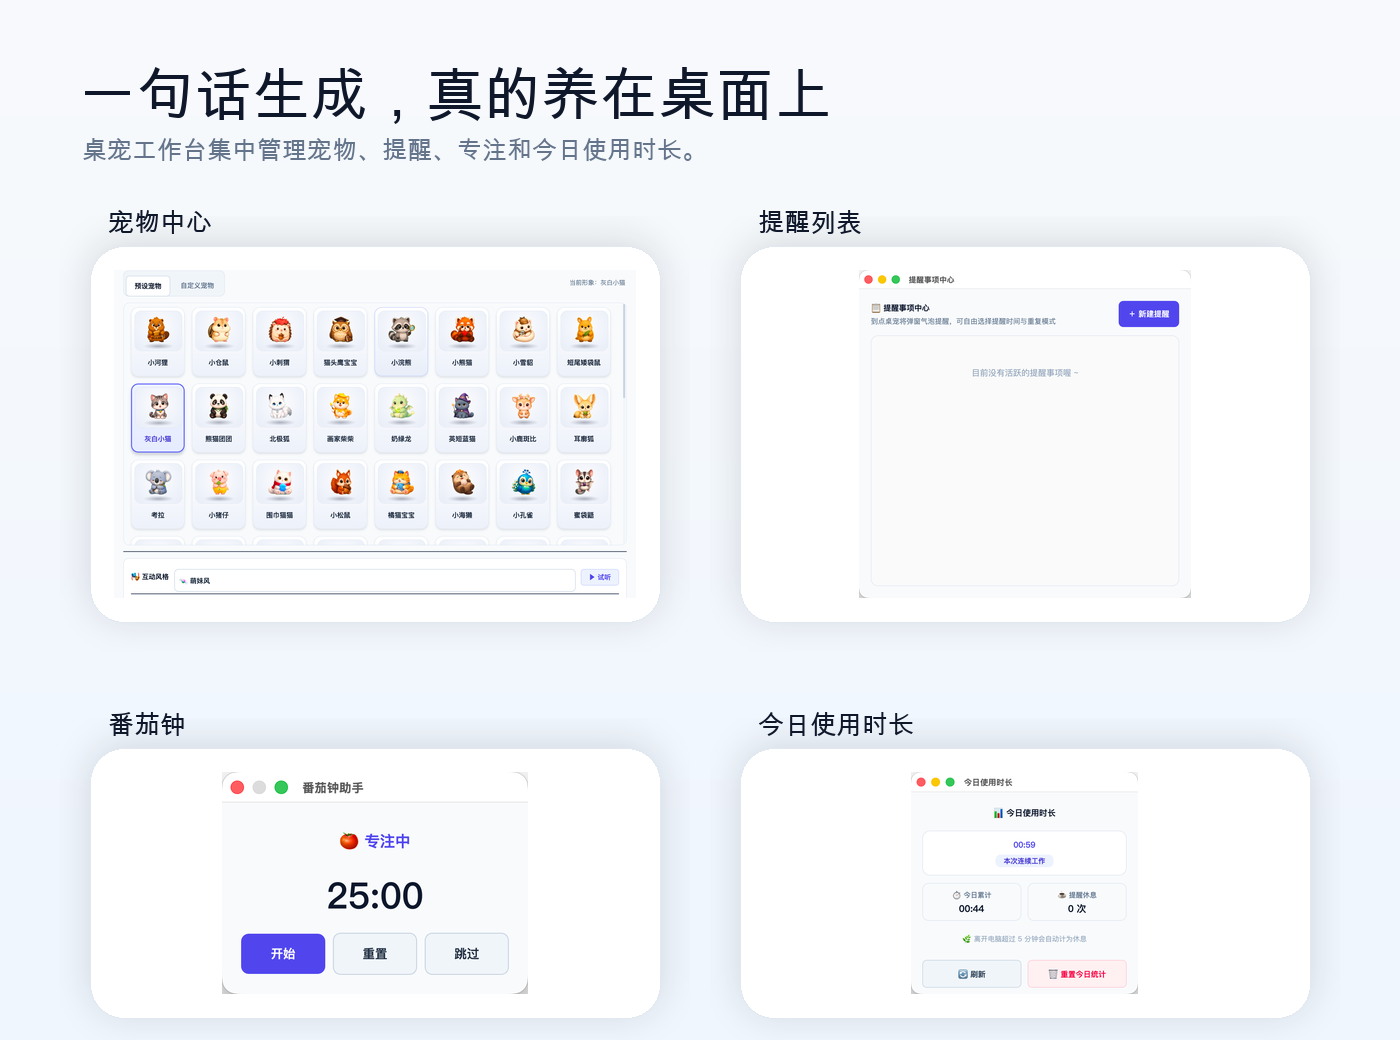
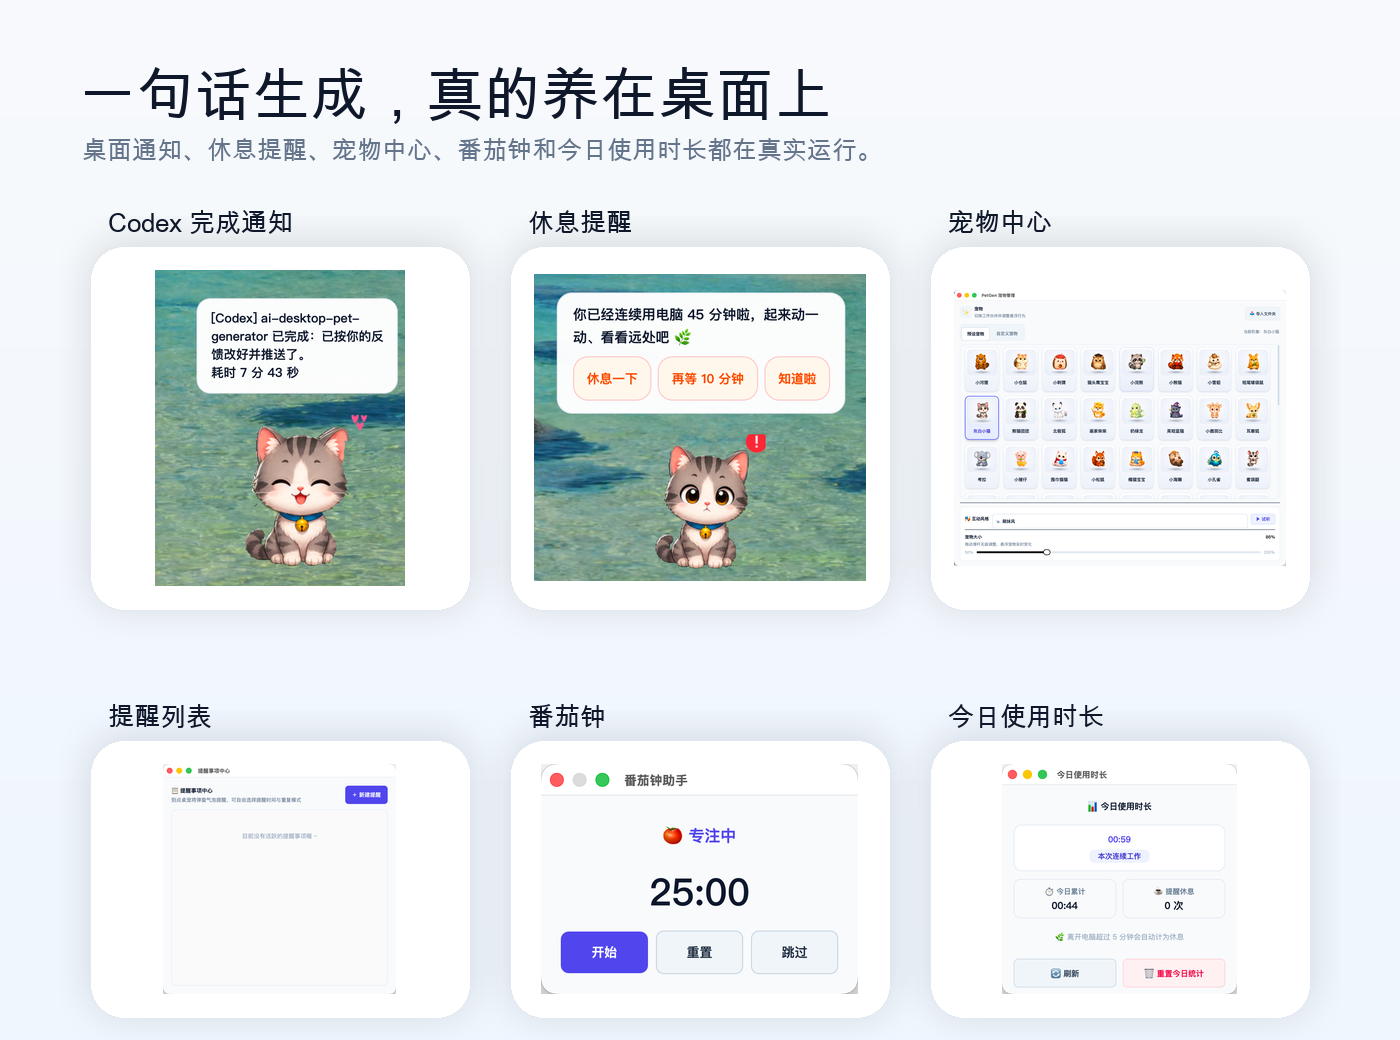
docs: polish runtime showcase grid

diff --git a/scripts/make_readme_media.py b/scripts/make_readme_media.py
@@ -31,6 +31,7 @@ IMG_DIR = ROOT / "docs" / "images"
 SOCIAL_DIR = ROOT / "docs" / "social"
 GPT_SCENE = IMG_DIR / "gpt-desktop-scene.png"
 NOTIFICATION_SHOT = IMG_DIR / "readme-notification.png"
+REST_REMINDER_SHOT = IMG_DIR / "readme-rest-reminder.png"
 PET_CENTER_SHOT = IMG_DIR / "readme-pet-center.png"
 REMINDERS_SHOT = IMG_DIR / "readme-reminders.png"
 POMODORO_SHOT = IMG_DIR / "readme-pomodoro.png"
@@ -365,14 +366,16 @@ def _render_qt_panels(output_dir: Path) -> tuple[Path, Path, Path]:
 def _make_ui_showcase(library_path: Path, usage_path: Path) -> Image.Image:
     canvas = _gradient((1280, 1080), (248, 250, 252), (239, 246, 255))
     draw = ImageDraw.Draw(canvas)
-    _text(draw, (72, 54), "看得见的桌宠工作台", _font(FONT_CJK, 48), INK)
-    _text(draw, (74, 124), "宠物中心、提醒列表、番茄钟和今日使用时长都是真实窗口截图", _font(FONT_CJK, 25), MUTED)
+    _text(draw, (72, 54), "真实运行，一屏看全", _font(FONT_CJK, 48), INK)
+    _text(draw, (74, 124), "桌面通知、休息提醒、宠物中心、提醒列表、番茄钟和今日使用时长", _font(FONT_CJK, 25), MUTED)
 
     shots = (
-        ("宠物中心", _required_image(PET_CENTER_SHOT), (72, 238, 616, 594), True),
-        ("提醒列表", _required_image(REMINDERS_SHOT), (664, 238, 1208, 594), False),
-        ("番茄钟", _required_image(POMODORO_SHOT), (72, 706, 616, 1062), False),
-        ("今日使用时长", _required_image(USAGE_SHOT), (664, 706, 1208, 1062), False),
+        ("Codex 完成通知", _required_image(NOTIFICATION_SHOT), (72, 238, 416, 590), False),
+        ("休息提醒", _required_image(REST_REMINDER_SHOT), (468, 238, 812, 590), False),
+        ("宠物中心", _required_image(PET_CENTER_SHOT), (864, 238, 1208, 590), False),
+        ("提醒列表", _required_image(REMINDERS_SHOT), (72, 700, 416, 1052), False),
+        ("番茄钟", _required_image(POMODORO_SHOT), (468, 700, 812, 1052), False),
+        ("今日使用时长", _required_image(USAGE_SHOT), (864, 700, 1208, 1052), False),
     )
     for title, image, box, cover in shots:
         _draw_image_panel(canvas, image, box, cover=cover)
@@ -384,13 +387,15 @@ def _make_showcase(desktop: Image.Image, ui: Image.Image) -> Image.Image:
     canvas = _gradient((1400, 1040), (248, 250, 252), (239, 246, 255))
     draw = ImageDraw.Draw(canvas)
     _text(draw, (78, 54), "一句话生成，真的养在桌面上", _font(FONT_CJK, 58), INK)
-    _text(draw, (82, 132), "桌宠工作台集中管理宠物、提醒、专注和今日使用时长。", _font(FONT_CJK, 25), MUTED)
+    _text(draw, (82, 132), "桌面通知、休息提醒、宠物中心、番茄钟和今日使用时长都在真实运行。", _font(FONT_CJK, 25), MUTED)
 
     shots = (
-        ("宠物中心", _required_image(PET_CENTER_SHOT), (90, 246, 660, 622), True),
-        ("提醒列表", _required_image(REMINDERS_SHOT), (740, 246, 1310, 622), False),
-        ("番茄钟", _required_image(POMODORO_SHOT), (90, 748, 660, 1018), False),
-        ("今日使用时长", _required_image(USAGE_SHOT), (740, 748, 1310, 1018), False),
+        ("Codex 完成通知", _required_image(NOTIFICATION_SHOT), (90, 246, 470, 610), False),
+        ("休息提醒", _required_image(REST_REMINDER_SHOT), (510, 246, 890, 610), False),
+        ("宠物中心", _required_image(PET_CENTER_SHOT), (930, 246, 1310, 610), False),
+        ("提醒列表", _required_image(REMINDERS_SHOT), (90, 740, 470, 1018), False),
+        ("番茄钟", _required_image(POMODORO_SHOT), (510, 740, 890, 1018), False),
+        ("今日使用时长", _required_image(USAGE_SHOT), (930, 740, 1310, 1018), False),
     )
     for title, image, box, cover in shots:
         _draw_image_panel(canvas, image, box, radius=34, cover=cover)

diff --git a/README.md b/README.md
@@ -16,7 +16,7 @@
 它会完成从 AI 生图到本地切帧的整条链路：生成形象、绿幕抠图、切帧、打包成 `8 x 9` 精灵表，然后通过托盘应用把宠物养在桌面上。你也可以把它接入 Claude Code、Codex、Antigravity 等 AI 编码工具，让任务状态实时变成桌宠表情、气泡和音效反馈。
 
 <p align="center">
-  <img src="docs/images/readme-showcase.png" alt="AI 桌面宠物生成器：宠物中心、提醒列表、番茄钟和今日使用时长四宫格展示" width="880">
+  <img src="docs/images/readme-showcase.png" alt="AI 桌面宠物生成器：桌面通知、休息提醒、宠物中心、提醒列表、番茄钟和今日使用时长六宫格展示" width="880">
   <br>
   <sub>一句话生成、绿幕切帧、托盘常驻，并在一个工作台里管理宠物、提醒、专注和使用时长。</sub>
 </p>
@@ -51,16 +51,9 @@
 不只是预览图，这是 `petgen app` 跑起来后的核心体验：悬浮宠物常驻桌面、有呼吸动画，宠物中心可以浏览、切换、管理你养的所有伙伴，今日使用时长面板会记录连续工作和休息提醒。
 
 <p align="center">
-  <img src="docs/images/readme-ui-showcase.png" alt="宠物中心、提醒列表、番茄钟和今日使用时长四宫格界面展示" width="820">
+  <img src="docs/images/readme-ui-showcase.png" alt="桌面通知、休息提醒、宠物中心、提醒列表、番茄钟和今日使用时长六宫格展示" width="840">
   <br>
-  <sub>宠物中心 / 提醒列表 / 番茄钟 / 今日使用时长</sub>
-</p>
-
-<p align="center">
-  <img src="docs/images/readme-notification.png" alt="Codex 任务完成后的桌面宠物通知" width="360">
-  <img src="docs/images/readme-rest-reminder.png" alt="连续使用电脑 45 分钟后的桌面休息提醒" width="420">
-  <br>
-  <sub>Codex 完成通知 / 连续工作休息提醒</sub>
+  <sub>Codex 完成通知 / 休息提醒 / 宠物中心 / 提醒列表 / 番茄钟 / 今日使用时长</sub>
 </p>
 
 ## 小红书素材
